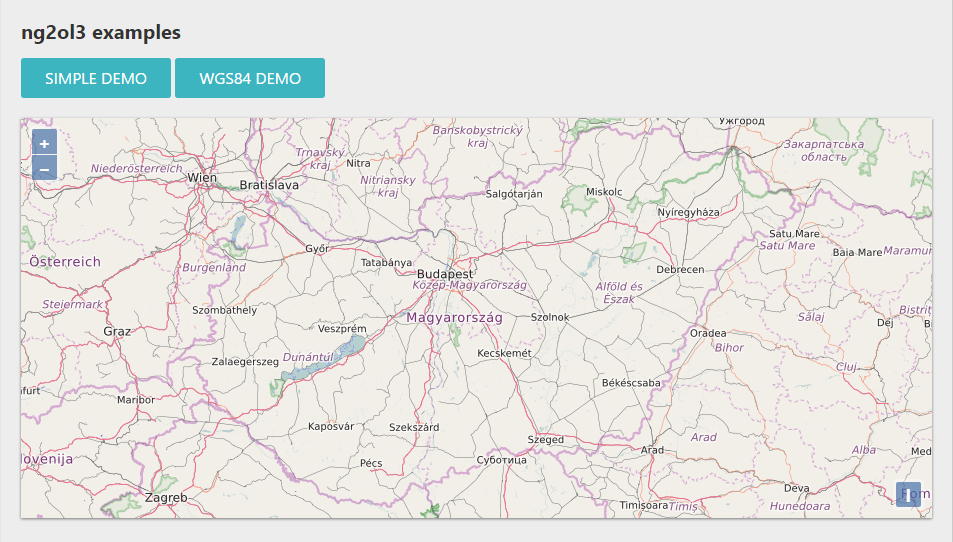
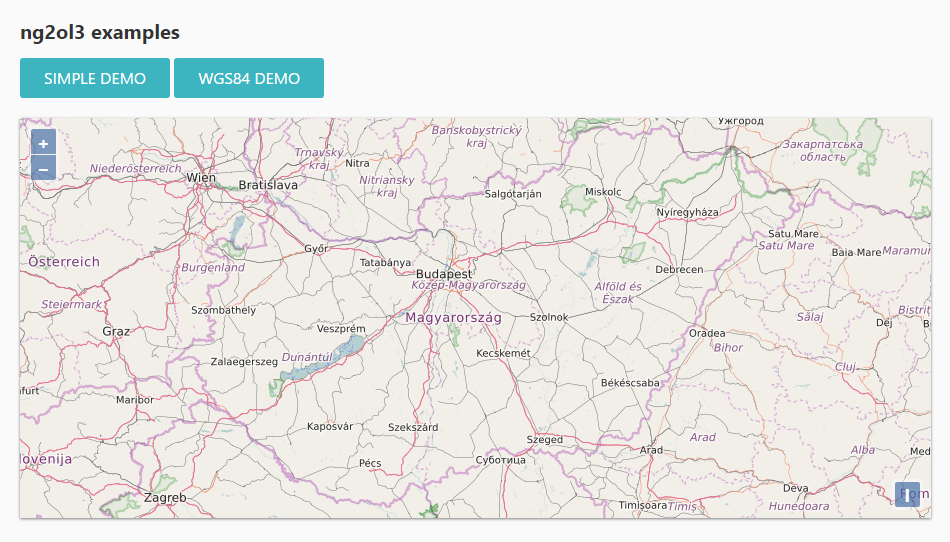
demo.png

diff --git a/style.css b/style.css
@@ -3,7 +3,7 @@ body {
     width: 100%;
     height: 100%;
     margin: 0;
-    background-color: #ededed;
+    background-color: #fafafa;
 }
 
 .demo {
